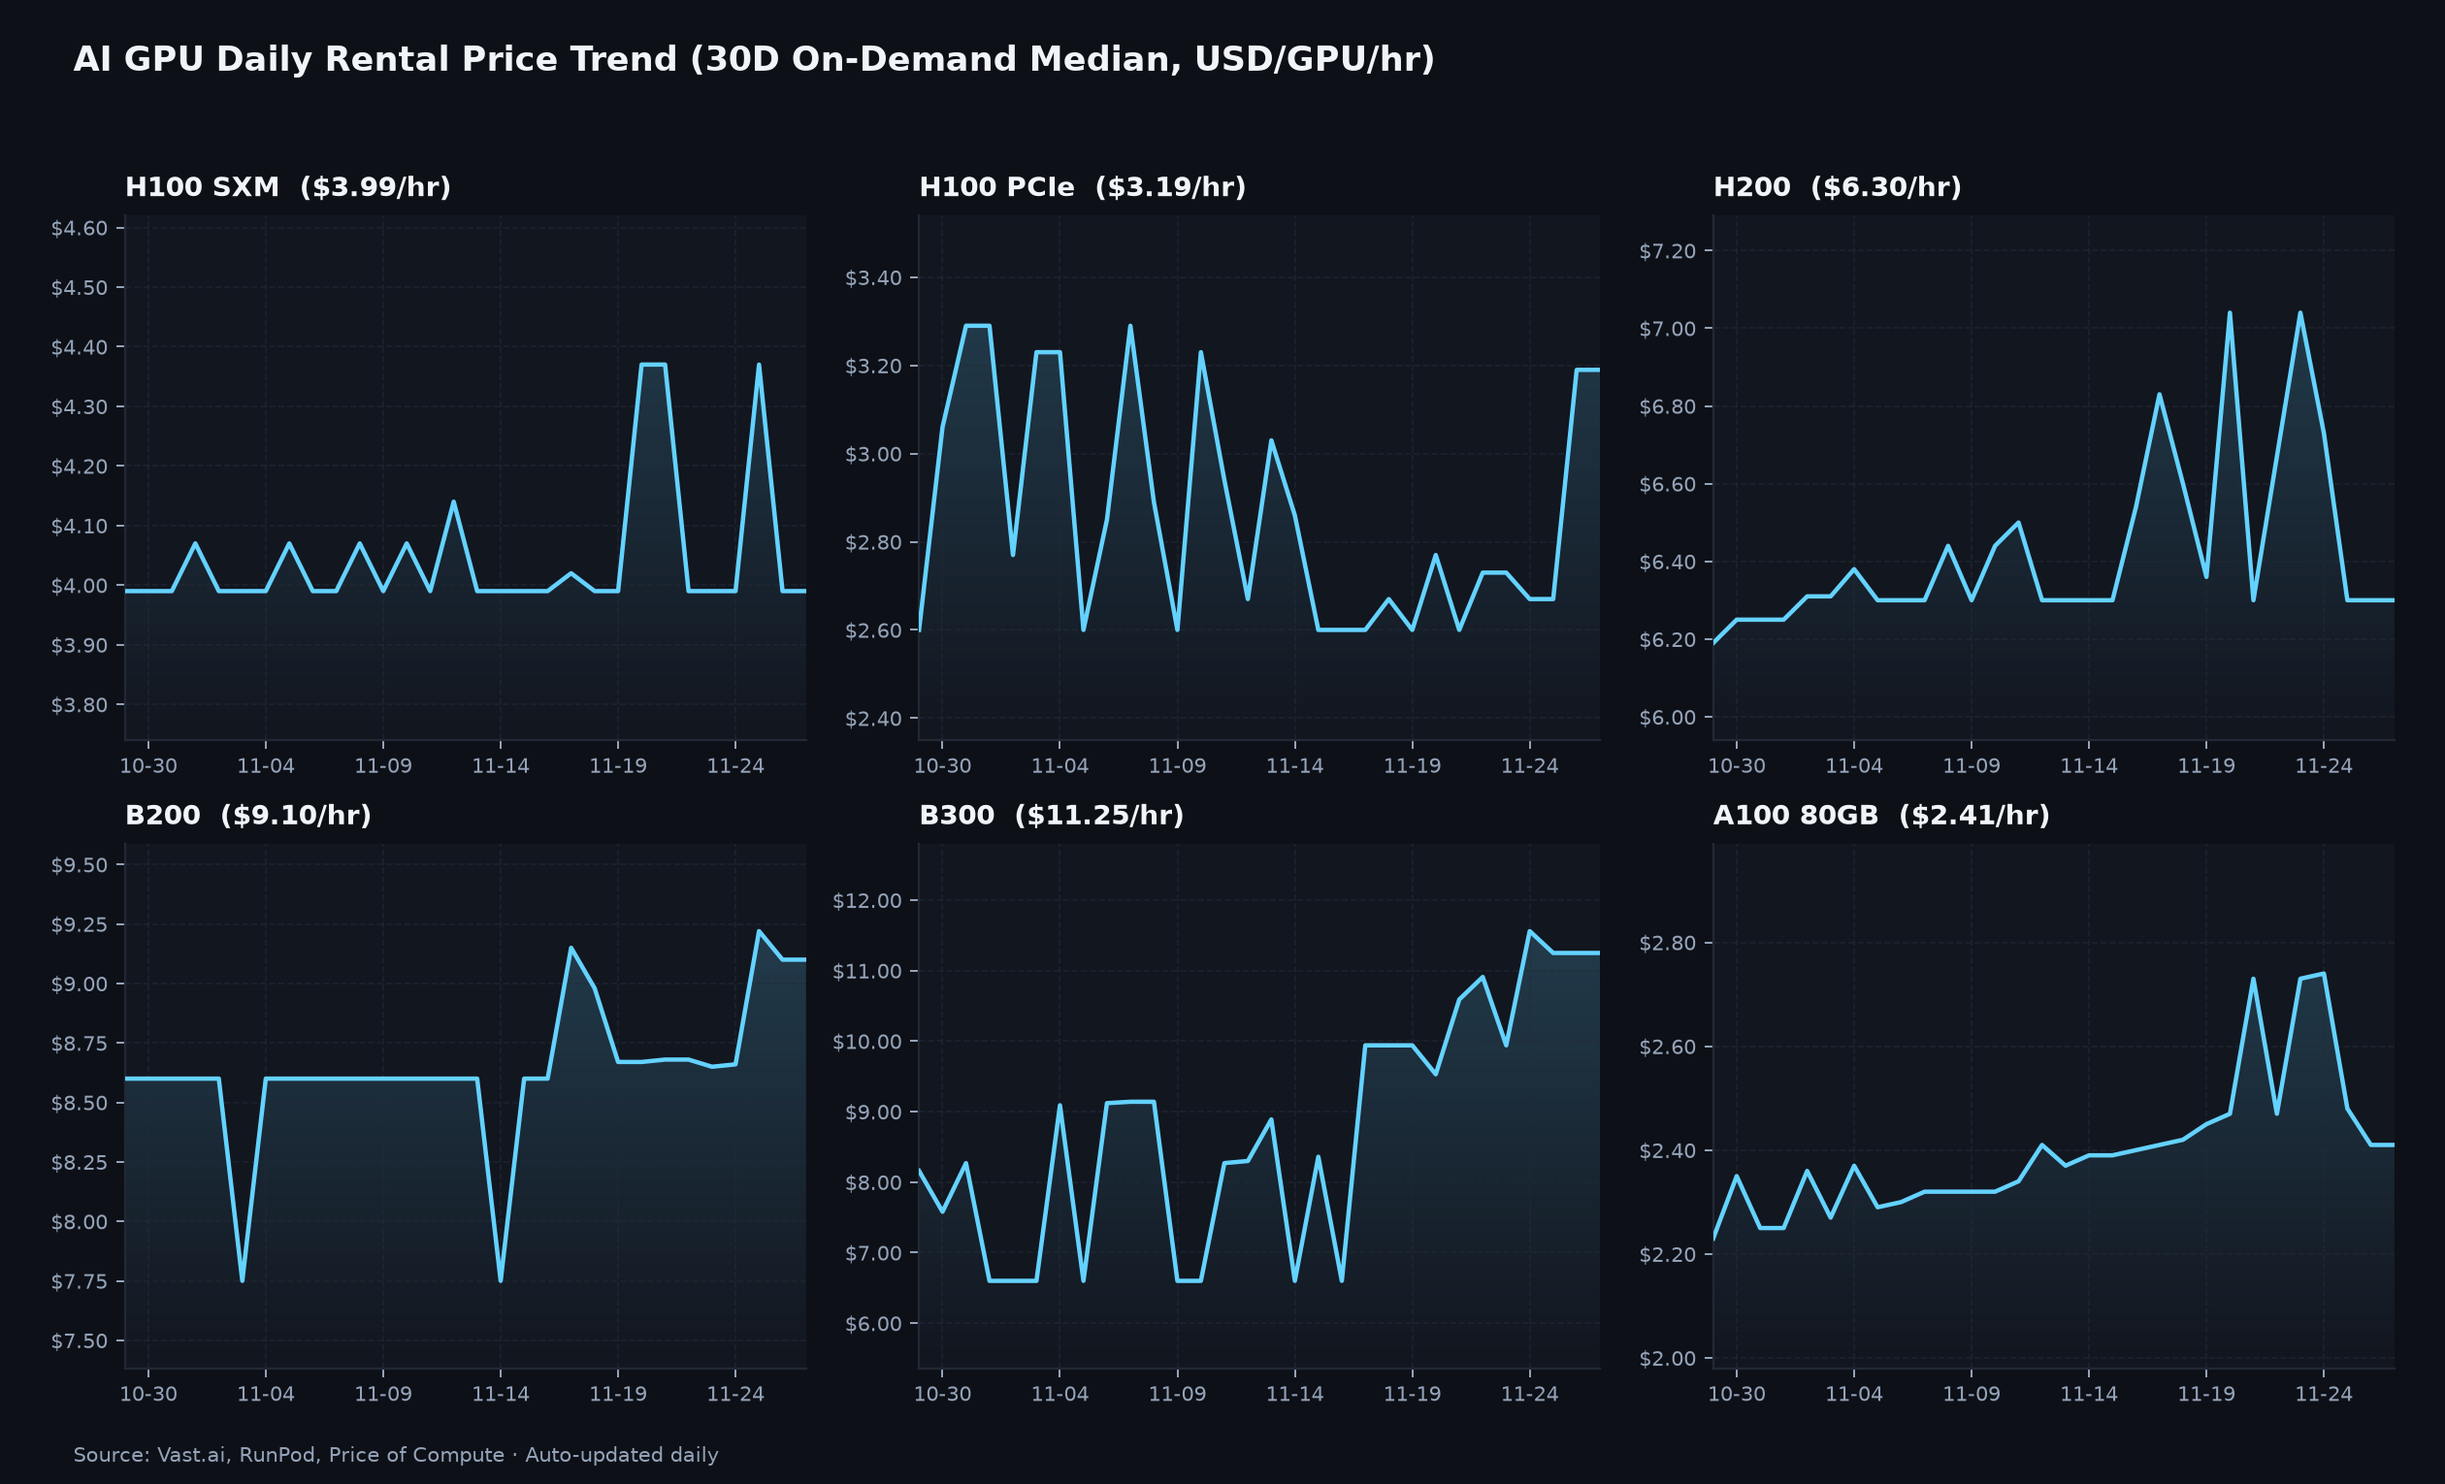
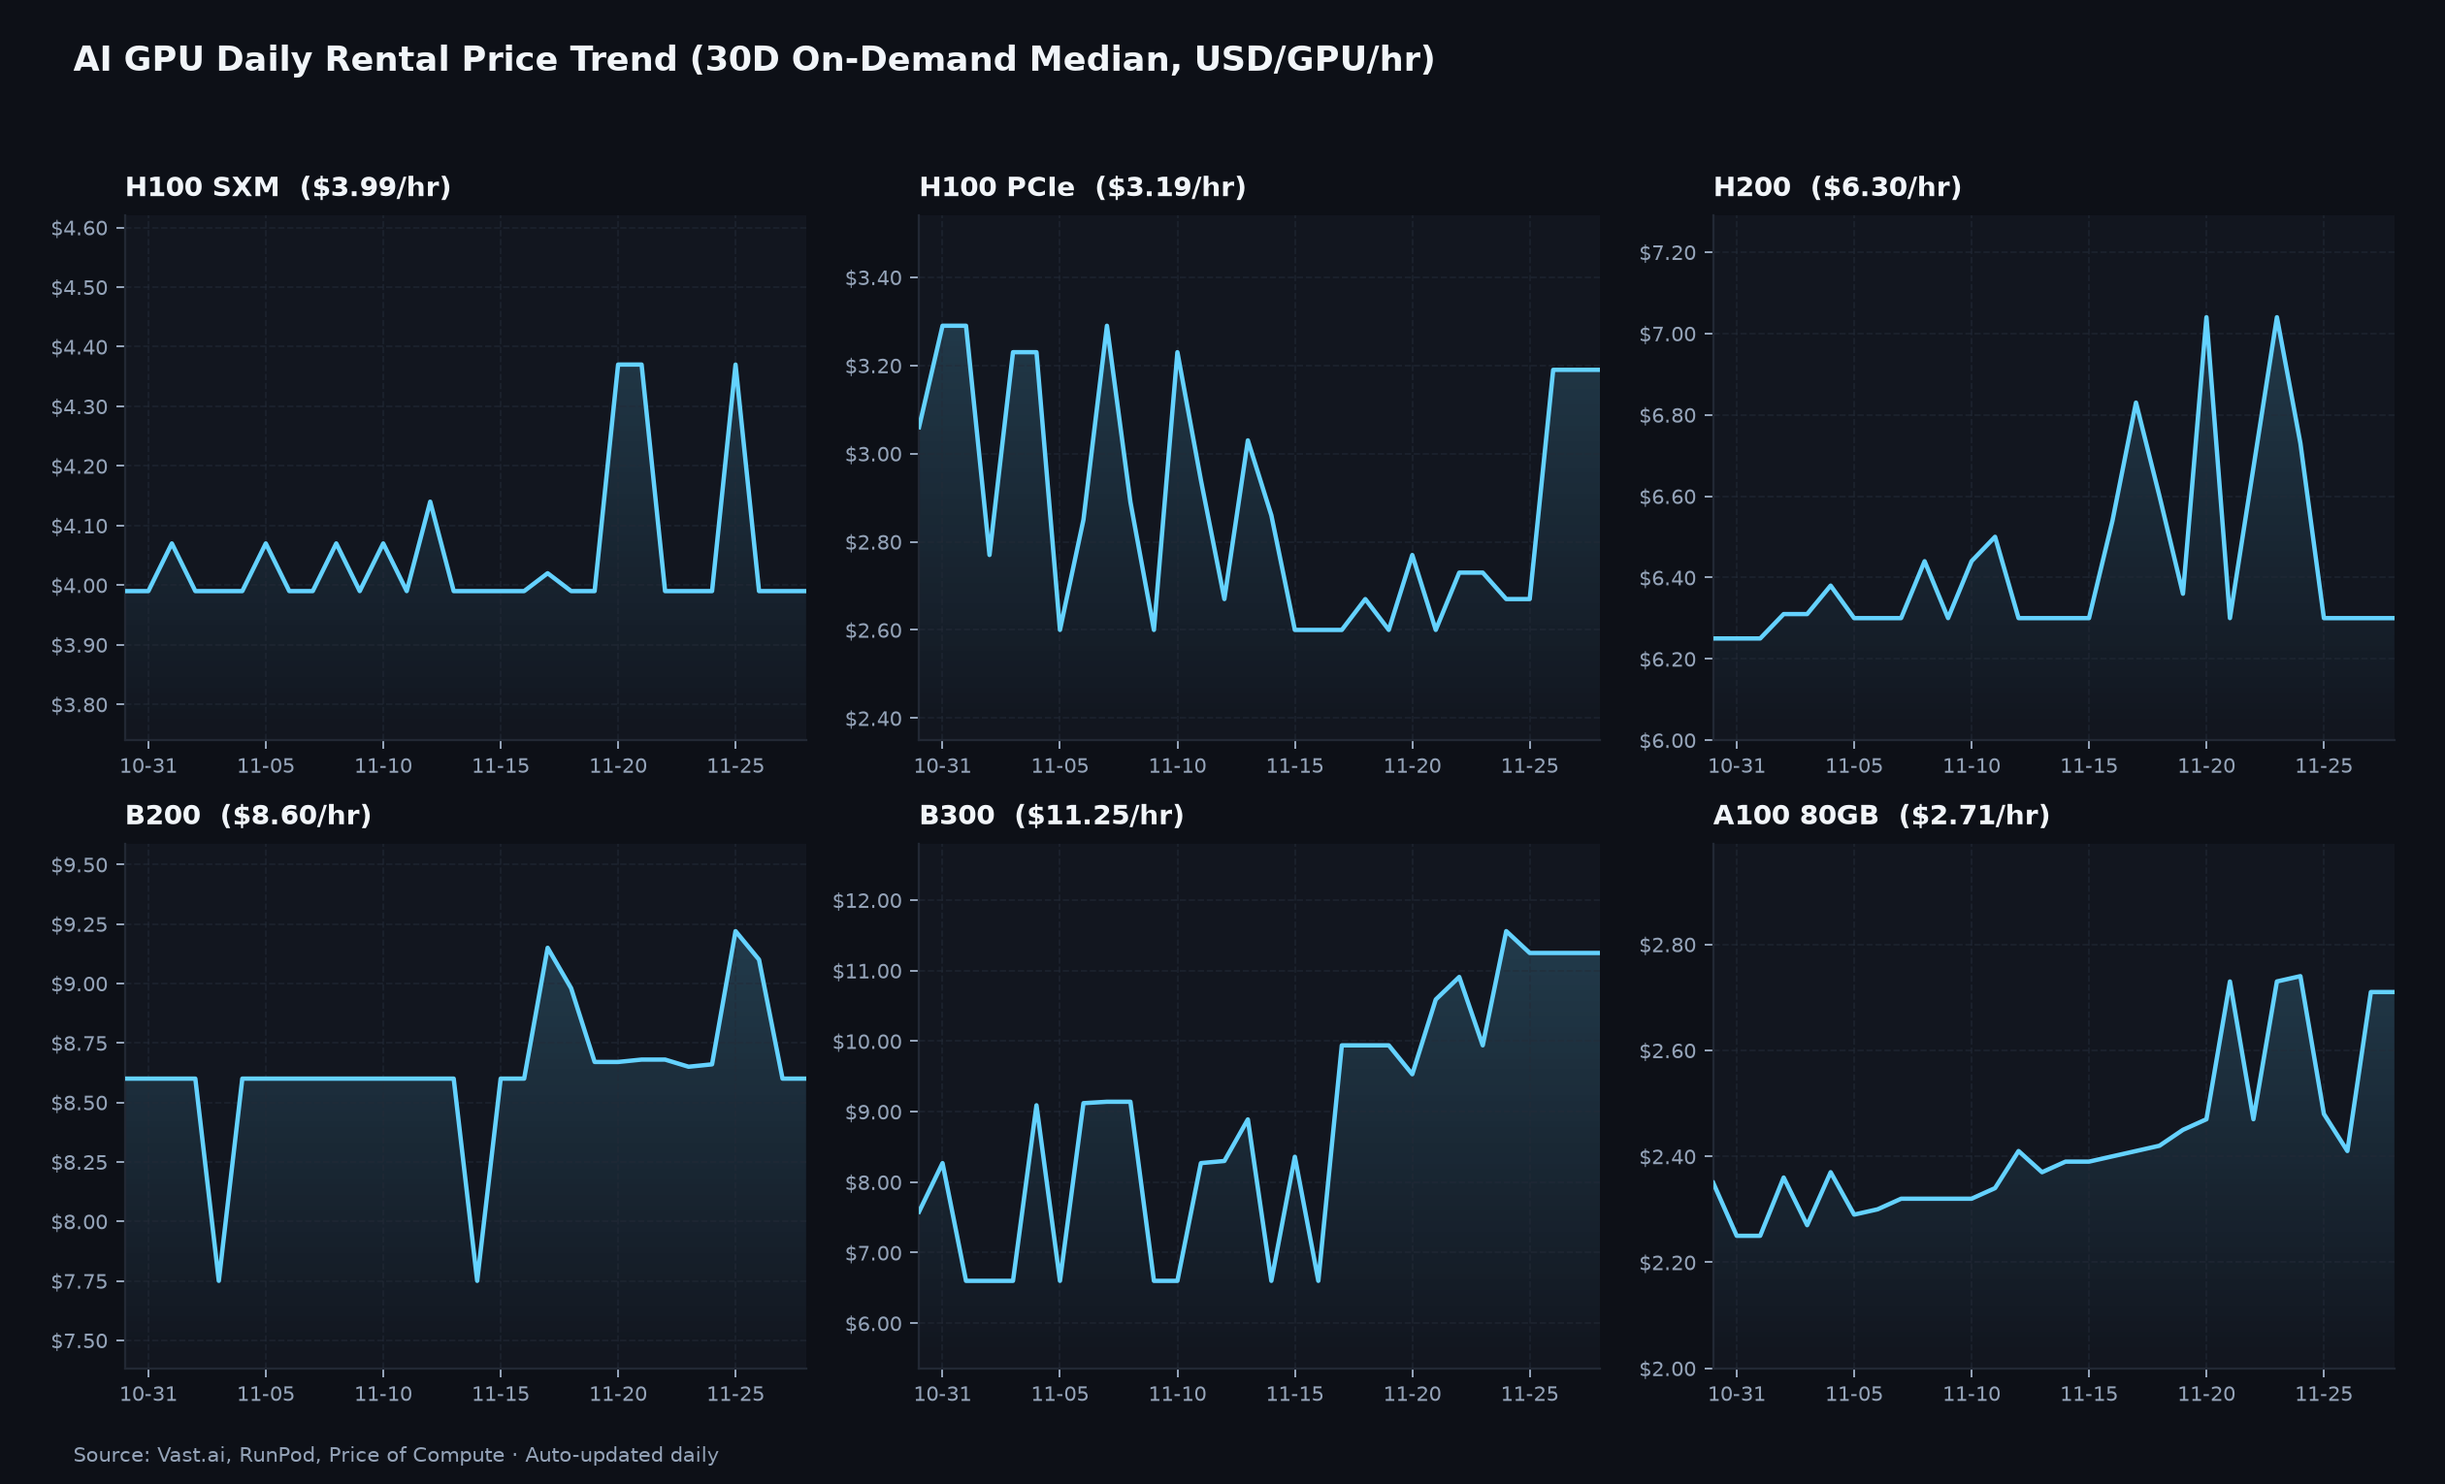
chore: update daily GPU rental prices (2026-11-28)

diff --git a/reports/latest_report.md b/reports/latest_report.md
@@ -1,15 +1,15 @@
-# AI GPU 일일 임대가격 & 시계열 변동폭 브리핑 (2026-11-27 KST)
+# AI GPU 일일 임대가격 & 시계열 변동폭 브리핑 (2026-11-28 KST)
 
 단위: USD / GPU / hour · 소스: Vast.ai, RunPod, Price of Compute
 
 | GPU 모델 | 온디맨드 최저 | 온디맨드 중간값 | 스팟 최저 | 스팟 중간값 | 전일 대비 (1D) | 1주일 대비 (7D) | 한달 대비 (30D) | Vast.ai 가용량 | RunPod 정가 |
 | :--- | :---: | :---: | :---: | :---: | :---: | :---: | :---: | :---: | :---: |
-| **H100 SXM** | $1.73 | $3.99 | $1.67 | $2.31 | $0.00 (0.0%) | -$0.38 (-8.7%) | -$0.15 (-3.6%) | 0 GPUs | $4.39 |
-| **H100 PCIe** | $1.99 | $3.19 | $2.13 | $2.13 | $0.00 (0.0%) | +$0.42 (+15.2%) | +$0.06 (+1.9%) | 0 GPUs | $2.89 |
-| **H200** | $0.50 | $6.30 | $2.62 | $3.38 | $0.00 (0.0%) | -$0.74 (-10.5%) | $0.00 (0.0%) | 0 GPUs | $3.79 |
-| **B200** | $5.98 | $9.10 | $4.26 | $4.80 | $0.00 (0.0%) | +$0.43 (+5.0%) | +$1.35 (+17.4%) | 0 GPUs | $8.99 |
-| **B300** | $6.00 | $11.25 | $4.48 | $6.26 | $0.00 (0.0%) | +$1.72 (+18.1%) | +$2.65 (+30.8%) | 0 GPUs | $10.49 |
-| **A100 80GB** | $1.29 | $2.41 | $0.40 | $1.06 | $0.00 (0.0%) | -$0.06 (-2.4%) | +$0.21 (+9.6%) | 0 GPUs | $2.19 |
+| **H100 SXM** | $1.99 | $3.99 | $1.00 | $2.31 | $0.00 (0.0%) | -$0.38 (-8.7%) | $0.00 (0.0%) | 0 GPUs | $4.39 |
+| **H100 PCIe** | $1.99 | $3.19 | — | — | $0.00 (0.0%) | +$0.59 (+22.7%) | +$0.59 (+22.7%) | 0 GPUs | $2.89 |
+| **H200** | $0.50 | $6.30 | $2.62 | $3.38 | $0.00 (0.0%) | $0.00 (0.0%) | +$0.11 (+1.8%) | 0 GPUs | $3.79 |
+| **B200** | $5.98 | $8.60 | $4.26 | $4.53 | $0.00 (0.0%) | -$0.08 (-0.9%) | $0.00 (0.0%) | 0 GPUs | $8.99 |
+| **B300** | $6.00 | $11.25 | $4.48 | $6.26 | $0.00 (0.0%) | +$0.66 (+6.2%) | +$3.09 (+37.9%) | 0 GPUs | $10.49 |
+| **A100 80GB** | $1.07 | $2.71 | $0.93 | $1.06 | $0.00 (0.0%) | -$0.02 (-0.7%) | +$0.48 (+21.5%) | 0 GPUs | $2.19 |
 
 - **총 오픈 마켓플레이스(Vast.ai) 가용 물량:** 0 GPUs
-- **생성 시각:** 2026-11-27 12:52:58 KST
+- **생성 시각:** 2026-11-28 12:39:06 KST

diff --git a/reports/daily_report_2026-11-28.md b/reports/daily_report_2026-11-28.md
@@ -1,0 +1,15 @@
+# AI GPU 일일 임대가격 & 시계열 변동폭 브리핑 (2026-11-28 KST)
+
+단위: USD / GPU / hour · 소스: Vast.ai, RunPod, Price of Compute
+
+| GPU 모델 | 온디맨드 최저 | 온디맨드 중간값 | 스팟 최저 | 스팟 중간값 | 전일 대비 (1D) | 1주일 대비 (7D) | 한달 대비 (30D) | Vast.ai 가용량 | RunPod 정가 |
+| :--- | :---: | :---: | :---: | :---: | :---: | :---: | :---: | :---: | :---: |
+| **H100 SXM** | $1.99 | $3.99 | $1.00 | $2.31 | $0.00 (0.0%) | -$0.38 (-8.7%) | $0.00 (0.0%) | 0 GPUs | $4.39 |
+| **H100 PCIe** | $1.99 | $3.19 | — | — | $0.00 (0.0%) | +$0.59 (+22.7%) | +$0.59 (+22.7%) | 0 GPUs | $2.89 |
+| **H200** | $0.50 | $6.30 | $2.62 | $3.38 | $0.00 (0.0%) | $0.00 (0.0%) | +$0.11 (+1.8%) | 0 GPUs | $3.79 |
+| **B200** | $5.98 | $8.60 | $4.26 | $4.53 | $0.00 (0.0%) | -$0.08 (-0.9%) | $0.00 (0.0%) | 0 GPUs | $8.99 |
+| **B300** | $6.00 | $11.25 | $4.48 | $6.26 | $0.00 (0.0%) | +$0.66 (+6.2%) | +$3.09 (+37.9%) | 0 GPUs | $10.49 |
+| **A100 80GB** | $1.07 | $2.71 | $0.93 | $1.06 | $0.00 (0.0%) | -$0.02 (-0.7%) | +$0.48 (+21.5%) | 0 GPUs | $2.19 |
+
+- **총 오픈 마켓플레이스(Vast.ai) 가용 물량:** 0 GPUs
+- **생성 시각:** 2026-11-28 12:39:06 KST
